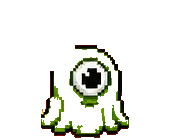
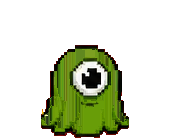
Smooth slime animation and refresh profile squares

Changed region(s): [[0.2353, 0.3143, 0.7647, 0.9714], [0.6176, 0.9429, 0.6471, 0.9714], [0.3824, 0.9429, 0.4118, 0.9714]]

diff --git a/g00dweird_chat-main/frontend/src/components/AnimSpriteAssets.test.js b/g00dweird_chat-main/frontend/src/components/AnimSpriteAssets.test.js
@@ -102,6 +102,20 @@ function enclosedTransparentPinholes({ width, height, alpha }, maxArea = 80) {
     return pinholes;
 }
 
+function opaquePixelCount({ width, height, alpha }) {
+    let opaque = 0;
+    for (let y = 0; y < height; y += 1) {
+        for (let x = 0; x < width; x += 1) {
+            if (alpha[y][x] > 0) opaque += 1;
+        }
+    }
+    return opaque;
+}
+
+function animationStateName(frameName) {
+    return frameName.replace(/_\d+\.png$/, "");
+}
+
 describe("animated sprite asset alpha", () => {
     test("cat frames have no enclosed transparent pinholes", () => {
         const badFrames = fs.readdirSync(CAT_DIR)
@@ -125,5 +139,28 @@ describe("animated sprite asset alpha", () => {
             .filter(Boolean);
 
         expect(transparentBodyFrames).toEqual([]);
+    });
+
+    test("slime animated states do not include sparse transparent flash frames", () => {
+        const statesToStabilize = new Set(["attack", "hop", "idle", "split", "wiggle"]);
+        const framesByState = fs.readdirSync(SLIME_DIR)
+            .filter((name) => name.endsWith(".png"))
+            .reduce((groups, name) => {
+                const state = animationStateName(name);
+                if (!statesToStabilize.has(state)) return groups;
+                const decoded = decodePngAlpha(path.join(SLIME_DIR, name));
+                groups[state] = groups[state] || [];
+                groups[state].push({ name, opaque: opaquePixelCount(decoded) });
+                return groups;
+            }, {});
+
+        const sparseFrames = Object.entries(framesByState).flatMap(([state, frames]) => {
+            const maxOpaque = Math.max(...frames.map((frame) => frame.opaque));
+            return frames
+                .filter((frame) => frame.opaque < maxOpaque * 0.62)
+                .map((frame) => ({ state, name: frame.name, opaque: frame.opaque, maxOpaque }));
+        });
+
+        expect(sparseFrames).toEqual([]);
     });
 });

diff --git a/g00dweird_chat-main/frontend/src/index.css b/g00dweird_chat-main/frontend/src/index.css
@@ -138,13 +138,11 @@ a {
 }
 
 @keyframes slime-chroma-cycle {
-    0%, 100% { filter: hue-rotate(0deg) saturate(1.45) contrast(1.08) drop-shadow(0 1px 0 rgba(0,0,0,0.55)); }
-    14% { filter: hue-rotate(22deg) saturate(1.55) contrast(1.08) drop-shadow(0 1px 0 rgba(0,0,0,0.55)); }
-    28% { filter: hue-rotate(52deg) saturate(1.5) contrast(1.1) drop-shadow(0 1px 0 rgba(0,0,0,0.55)); }
-    42% { filter: hue-rotate(88deg) saturate(1.38) contrast(1.12) drop-shadow(0 1px 0 rgba(0,0,0,0.55)); }
-    56% { filter: hue-rotate(152deg) saturate(1.42) contrast(1.08) drop-shadow(0 1px 0 rgba(0,0,0,0.55)); }
-    70% { filter: hue-rotate(236deg) saturate(1.34) contrast(1.1) drop-shadow(0 1px 0 rgba(0,0,0,0.55)); }
-    84% { filter: hue-rotate(302deg) saturate(1.48) contrast(1.08) drop-shadow(0 1px 0 rgba(0,0,0,0.55)); }
+    0%, 100% { filter: hue-rotate(0deg) saturate(1.42) contrast(1.08) drop-shadow(0 1px 0 rgba(0,0,0,0.55)); }
+    20% { filter: hue-rotate(34deg) saturate(1.5) contrast(1.09) drop-shadow(0 1px 0 rgba(0,0,0,0.55)); }
+    40% { filter: hue-rotate(78deg) saturate(1.44) contrast(1.1) drop-shadow(0 1px 0 rgba(0,0,0,0.55)); }
+    60% { filter: hue-rotate(128deg) saturate(1.46) contrast(1.08) drop-shadow(0 1px 0 rgba(0,0,0,0.55)); }
+    80% { filter: hue-rotate(58deg) saturate(1.5) contrast(1.09) drop-shadow(0 1px 0 rgba(0,0,0,0.55)); }
 }
 
 @media (prefers-reduced-motion: reduce) {

diff --git a/g00dweird_chat-main/frontend/src/components/AnimSprite.jsx b/g00dweird_chat-main/frontend/src/components/AnimSprite.jsx
@@ -18,7 +18,7 @@ import React, { useEffect, useRef } from "react";
  * STATE_ALIASES maps requested-but-missing states onto sensible existing frames.
  */
 
-export const ANIM_VERSION = 25;
+export const ANIM_VERSION = 26;
 
 // Frame counts per creature/state — mirrors slicer v3 / unified output.
 export const FRAMES = {
@@ -180,7 +180,7 @@ export function spriteVisualEffect(creature) {
     if (creature === "slime") {
         return {
             filter: "hue-rotate(0deg) saturate(1.45) contrast(1.08) drop-shadow(0 1px 0 rgba(0,0,0,0.55))",
-            animation: "slime-chroma-cycle 5.6s steps(7, end) infinite",
+            animation: "slime-chroma-cycle 8s linear infinite",
             willChange: "filter, transform",
         };
     }

diff --git a/g00dweird_chat-main/frontend/src/components/AnimSprite.test.js b/g00dweird_chat-main/frontend/src/components/AnimSprite.test.js
@@ -40,10 +40,13 @@ describe("animated sprite registry", () => {
     });
 
     test("gives slime a color-cycle treatment without affecting cat", () => {
-        expect(spriteVisualEffect("slime")).toEqual(expect.objectContaining({
+        const slimeEffect = spriteVisualEffect("slime");
+        expect(slimeEffect).toEqual(expect.objectContaining({
             animation: expect.stringContaining("slime-chroma-cycle"),
             filter: expect.stringContaining("saturate"),
         }));
+        expect(slimeEffect.animation).toContain("linear");
+        expect(slimeEffect.animation).not.toContain("steps");
         expect(spriteVisualEffect("cat")).toEqual({});
     });
 });

diff --git a/g00dweird_chat-main/scripts/update_cat_slime_profile_squares.py b/g00dweird_chat-main/scripts/update_cat_slime_profile_squares.py
@@ -1,0 +1,107 @@
+#!/usr/bin/env python3
+"""Refresh cat and slime profile-square card assets from current sprite frames."""
+from pathlib import Path
+
+from PIL import Image, ImageDraw
+
+
+ROOT = Path(__file__).resolve().parents[1]
+ANIM_DIR = ROOT / "frontend" / "public" / "anim"
+SQUARE_DIR = ROOT / "frontend" / "public" / "assets" / "avatar-cards" / "square"
+SIZE = 512
+
+SPECS = {
+    "cat": {
+        "frame": ANIM_DIR / "cat" / "idle_0.png",
+        "output": SQUARE_DIR / "cat.png",
+        "top": (99, 78, 255),
+        "bottom": (27, 24, 62),
+        "border": (128, 96, 255),
+        "accent": (255, 68, 150),
+        "subject_height": 288,
+        "baseline": 394,
+    },
+    "slime": {
+        "frame": ANIM_DIR / "slime" / "idle_0.png",
+        "output": SQUARE_DIR / "slime.png",
+        "top": (143, 255, 78),
+        "bottom": (21, 57, 26),
+        "border": (148, 255, 92),
+        "accent": (255, 84, 40),
+        "subject_height": 336,
+        "baseline": 405,
+    },
+}
+
+
+def gradient_background(top, bottom):
+    image = Image.new("RGB", (SIZE, SIZE), top)
+    pixels = image.load()
+    for y in range(SIZE):
+        t = y / (SIZE - 1)
+        row = tuple(round(top[i] * (1 - t) + bottom[i] * t) for i in range(3))
+        for x in range(SIZE):
+            pixels[x, y] = row
+    return image.convert("RGBA")
+
+
+def crop_sprite(path):
+    sprite = Image.open(path).convert("RGBA")
+    bbox = sprite.getchannel("A").getbbox()
+    if not bbox:
+        raise ValueError(f"{path} has no opaque pixels")
+    x0, y0, x1, y1 = bbox
+    pad = 6
+    return sprite.crop((
+        max(0, x0 - pad),
+        max(0, y0 - pad),
+        min(sprite.width, x1 + pad),
+        min(sprite.height, y1 + pad),
+    ))
+
+
+def scaled_nearest(sprite, target_height):
+    scale = target_height / sprite.height
+    target_size = (round(sprite.width * scale), target_height)
+    return sprite.resize(target_size, Image.Resampling.NEAREST)
+
+
+def tinted_shadow(sprite, color, offset):
+    shadow = Image.new("RGBA", sprite.size, color)
+    shadow.putalpha(sprite.getchannel("A"))
+    canvas = Image.new("RGBA", (sprite.width + abs(offset[0]) * 2, sprite.height + abs(offset[1]) * 2), (0, 0, 0, 0))
+    canvas.alpha_composite(shadow, (abs(offset[0]) + offset[0], abs(offset[1]) + offset[1]))
+    return canvas
+
+
+def draw_frame(draw, border, accent):
+    draw.rectangle((8, 8, SIZE - 9, SIZE - 9), outline=(10, 10, 16), width=8)
+    draw.rectangle((18, 18, SIZE - 19, SIZE - 19), outline=border, width=4)
+    draw.rectangle((25, 25, SIZE - 26, SIZE - 26), outline=tuple(max(0, c - 54) for c in border), width=2)
+    draw.point((36, 36), fill=accent)
+    draw.point((SIZE - 37, 36), fill=accent)
+
+
+def render_square(name, spec):
+    image = gradient_background(spec["top"], spec["bottom"])
+    draw = ImageDraw.Draw(image)
+    draw_frame(draw, spec["border"], spec["accent"])
+
+    sprite = scaled_nearest(crop_sprite(spec["frame"]), spec["subject_height"])
+    x = (SIZE - sprite.width) // 2
+    y = spec["baseline"] - sprite.height
+
+    image.alpha_composite(tinted_shadow(sprite, (0, 0, 0, 210), (10, 12)), (x - 10, y - 10))
+    image.alpha_composite(tinted_shadow(sprite, (*spec["accent"], 180), (5, 5)), (x - 5, y - 5))
+    image.alpha_composite(sprite, (x, y))
+    image.convert("RGB").save(spec["output"])
+    print(f"updated {name}: {spec['output']}")
+
+
+def main():
+    for name, spec in SPECS.items():
+        render_square(name, spec)
+
+
+if __name__ == "__main__":
+    main()

diff --git a/g00dweird_chat-main/scripts/stabilize_slime_sprite_frames.py b/g00dweird_chat-main/scripts/stabilize_slime_sprite_frames.py
@@ -1,0 +1,46 @@
+#!/usr/bin/env python3
+"""Composite stable slime frames behind under-rotoscoped frames.
+
+The source sheet has a few frames where the body was mostly removed by the
+background cutout. Keeping the pose details in front but adding a neighboring
+full body behind it prevents transparent flashing in animation loops.
+"""
+from pathlib import Path
+
+from PIL import Image
+
+from fix_slime_sprite_transparency import fix_frame
+
+
+ROOT = Path(__file__).resolve().parents[1]
+SLIME_DIR = ROOT / "frontend" / "public" / "anim" / "slime"
+
+REPAIRS = {
+    "attack_2.png": "attack_1.png",
+    "attack_3.png": "attack_1.png",
+    "hop_1.png": "hop_0.png",
+    "idle_2.png": "idle_1.png",
+    "split_3.png": "split_2.png",
+    "wiggle_2.png": "wiggle_1.png",
+}
+
+
+def composite_repair(target_name: str, donor_name: str) -> None:
+    target_path = SLIME_DIR / target_name
+    donor_path = SLIME_DIR / donor_name
+    base = Image.open(donor_path).convert("RGBA")
+    detail = Image.open(target_path).convert("RGBA")
+    base.alpha_composite(detail)
+    base.save(target_path)
+
+
+def main() -> None:
+    for target_name, donor_name in REPAIRS.items():
+        composite_repair(target_name, donor_name)
+        filled = fix_frame(SLIME_DIR / target_name)
+        suffix = f"; filled {filled} interior pixels" if filled else ""
+        print(f"repaired {target_name} with {donor_name}{suffix}")
+
+
+if __name__ == "__main__":
+    main()
